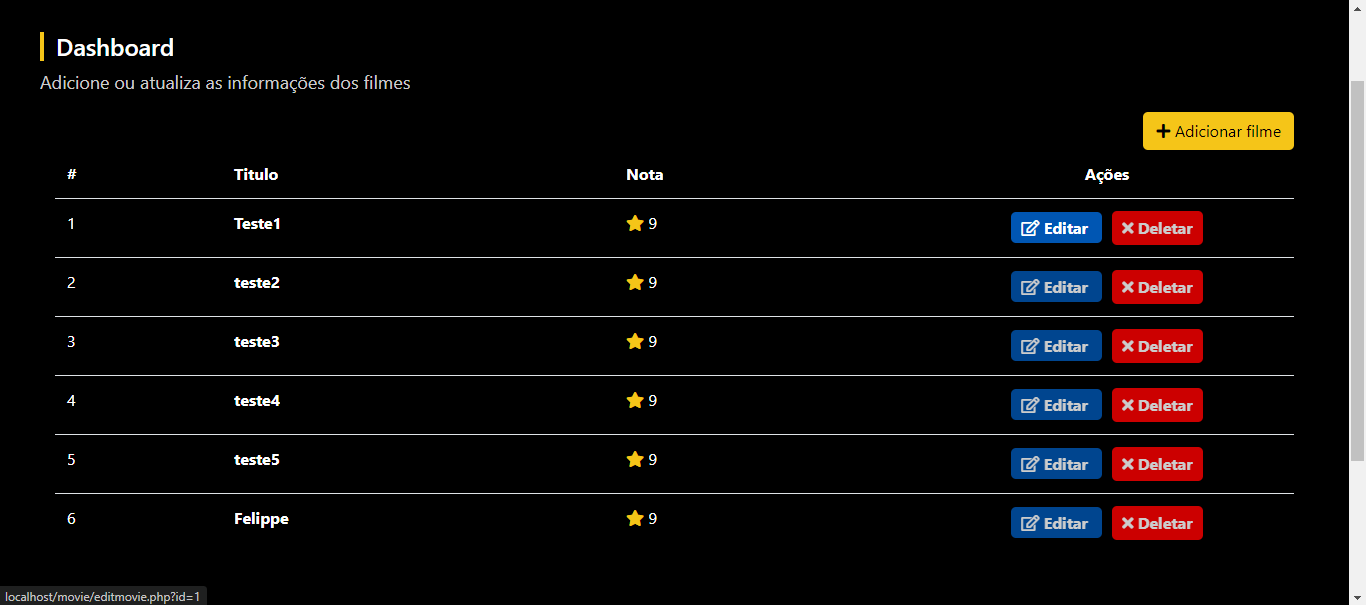
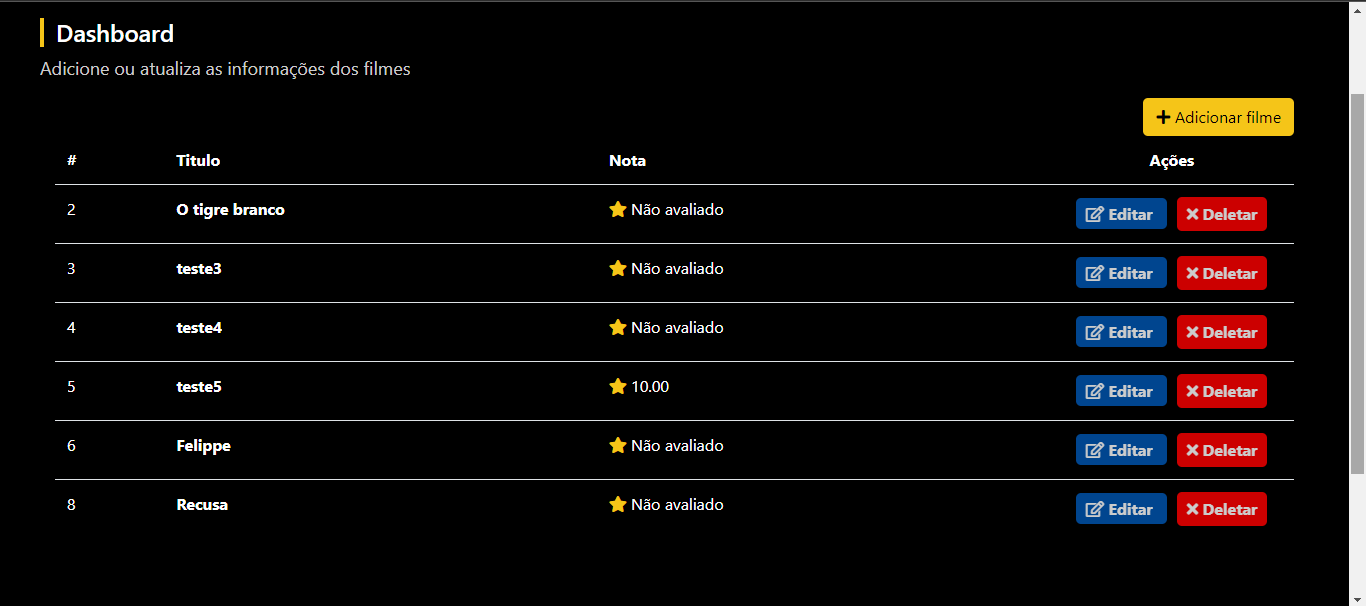
calculo de nota de filmes

diff --git a/dao/MovieDao.php b/dao/MovieDao.php
@@ -1,6 +1,7 @@
 <?php 
     include_once("models/Movie.php");//nossa classe principal
     include_once("models/Message.php");// classe voltada para mensagens de erro
+    include_once("dao/ReviewDao.php");
 
     class MovieDao implements MovieDaoInterface{
         // construindo um objeto de movie com base nos dados recebidos
@@ -28,6 +29,15 @@
             $movie->category = $data['category'];
             $movie->length = $data['length'];
             $movie->users_id = $data['users_id'];
+
+            // receba as ratings/nota do filme
+            $reviewDao = new ReviewDao($this->conn, $this->url);
+
+            $rating = $reviewDao->getRating($movie->id);
+
+            // criando uma propriedade nova no obj movie que irá armazenar a média da nota do filme
+            $movie->rating = $rating;
+            // o objeto do filme já irá com a nota
 
             return $movie;
         }

diff --git a/dao/ReviewDao.php b/dao/ReviewDao.php
@@ -102,6 +102,22 @@
 
         // buscando todas as notas de um filme
         public function getRating($id){
+            $stmt = $this->conn->prepare("SELECT rating FROM reviews WHERE movies_id =:movies_id");
+            $stmt->bindParam(":movies_id", $id);
+            $stmt->execute();
+            
+            
+            if($stmt->rowCount()>0){
+                $soma=0;
+                $ratings = $stmt->fetchAll();
+                
+                foreach($ratings as $r){
+                   $soma+= $r['rating'];
+                }
+                return number_format($soma / count($ratings),2);
+            }else{
+                return "Não avaliado";
+            }
             
         }
     }

diff --git a/movie.php b/movie.php
@@ -60,6 +60,8 @@
     // ARRAY QUE  RESGATA TODAS AS REVIEWS
     $moviesReview = $reviewDao->getMoviesReview($id);
 
+    // realiza o calculo da nota com base no id
+    $ratingMovie = $reviewDao->getRating($id);
     
 ?>
 
@@ -74,7 +76,7 @@
                 <span><?=$movie->category?></span>
                 <span class="pipe"></span>
 
-                <span><i class="fas fa-star"></i> 9</span>
+                <span><i class="fas fa-star"></i> <?=$movie->rating?></span>
                 <span class="pipe"></span>
 
                 <span>Autor: <a href="<?=$BASE_URL?>profile.php?id=<?=$objUser->id?>"><?=$objUser->name?></a></span>

diff --git a/dashboard.php b/dashboard.php
@@ -42,7 +42,7 @@
                 <tr>
                     <td scope="row"><?=$movie->id?></td>
                     <td><a href="<?=$BASE_URL?>movie.php?id=<?=$movie->id?>" class="table-movie-title"><?=$movie->title?></a></td>
-                    <td><i class="fas fa-star"></i> 9</td>
+                    <td><i class="fas fa-star"></i> <?=$movie->rating?></td>
                     <td class="actions-column">
                         <a href="<?=$BASE_URL?>editmovie.php?id=<?=$movie->id?>" class="edit-btn">
                             <i class="far fa-edit"></i> Editar

diff --git a/templates/user_review.php b/templates/user_review.php
@@ -21,7 +21,7 @@
 
         <div class="col-md-9 author-details-container">
             <h4 class="author-name"><a href="<?=$BASE_URL?>profile.php?id=<?=$review->user->id?>"><?=$fullName?></a></h4>
-            <p><i class="fas fa-star"></i> <?=$review->rating?></p>
+            <p><i class="fas fa-star"></i> <?=$review->rating?>/10</p>
         </div>
 
         <div class="col-md-12">

diff --git a/templates/movie_card.php b/templates/movie_card.php
@@ -18,7 +18,7 @@
             <i class="fas fa-star"></i>
             <!-- icone de estrela -->
 
-            <span class="rating">9</span>
+            <span class="rating"><?=$movie->rating?></span>
             <!-- nota -->
         </p>
 
